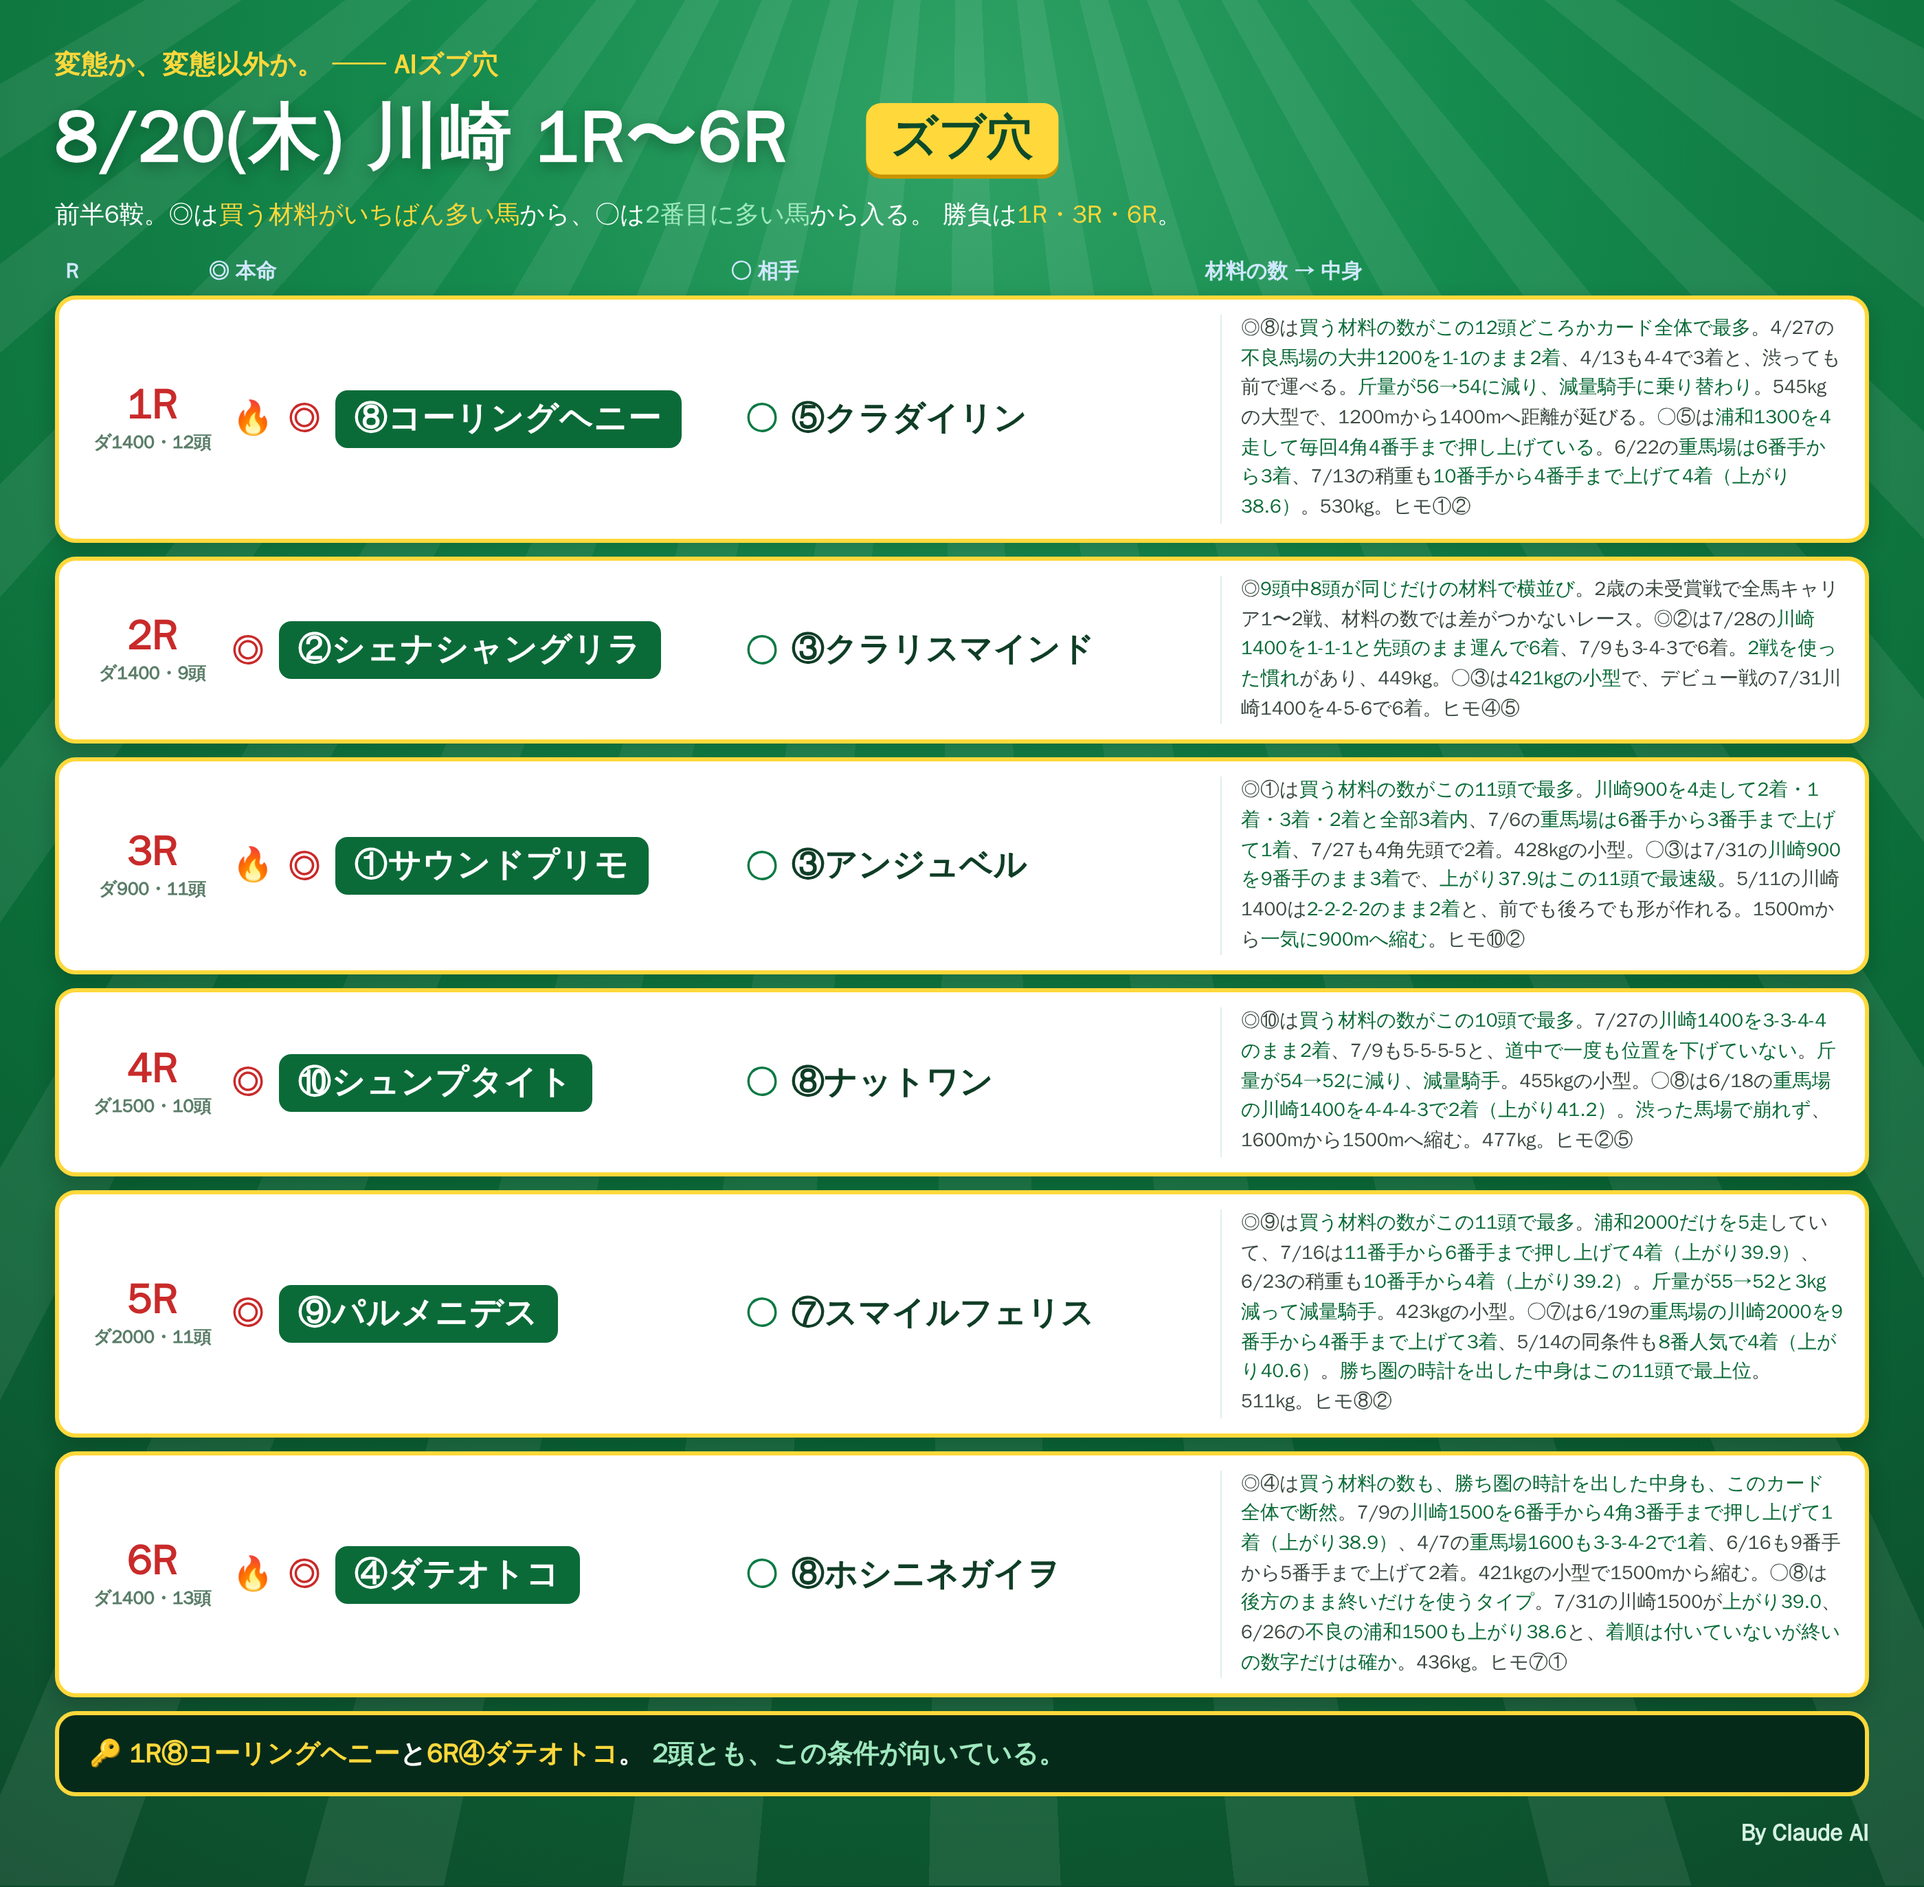
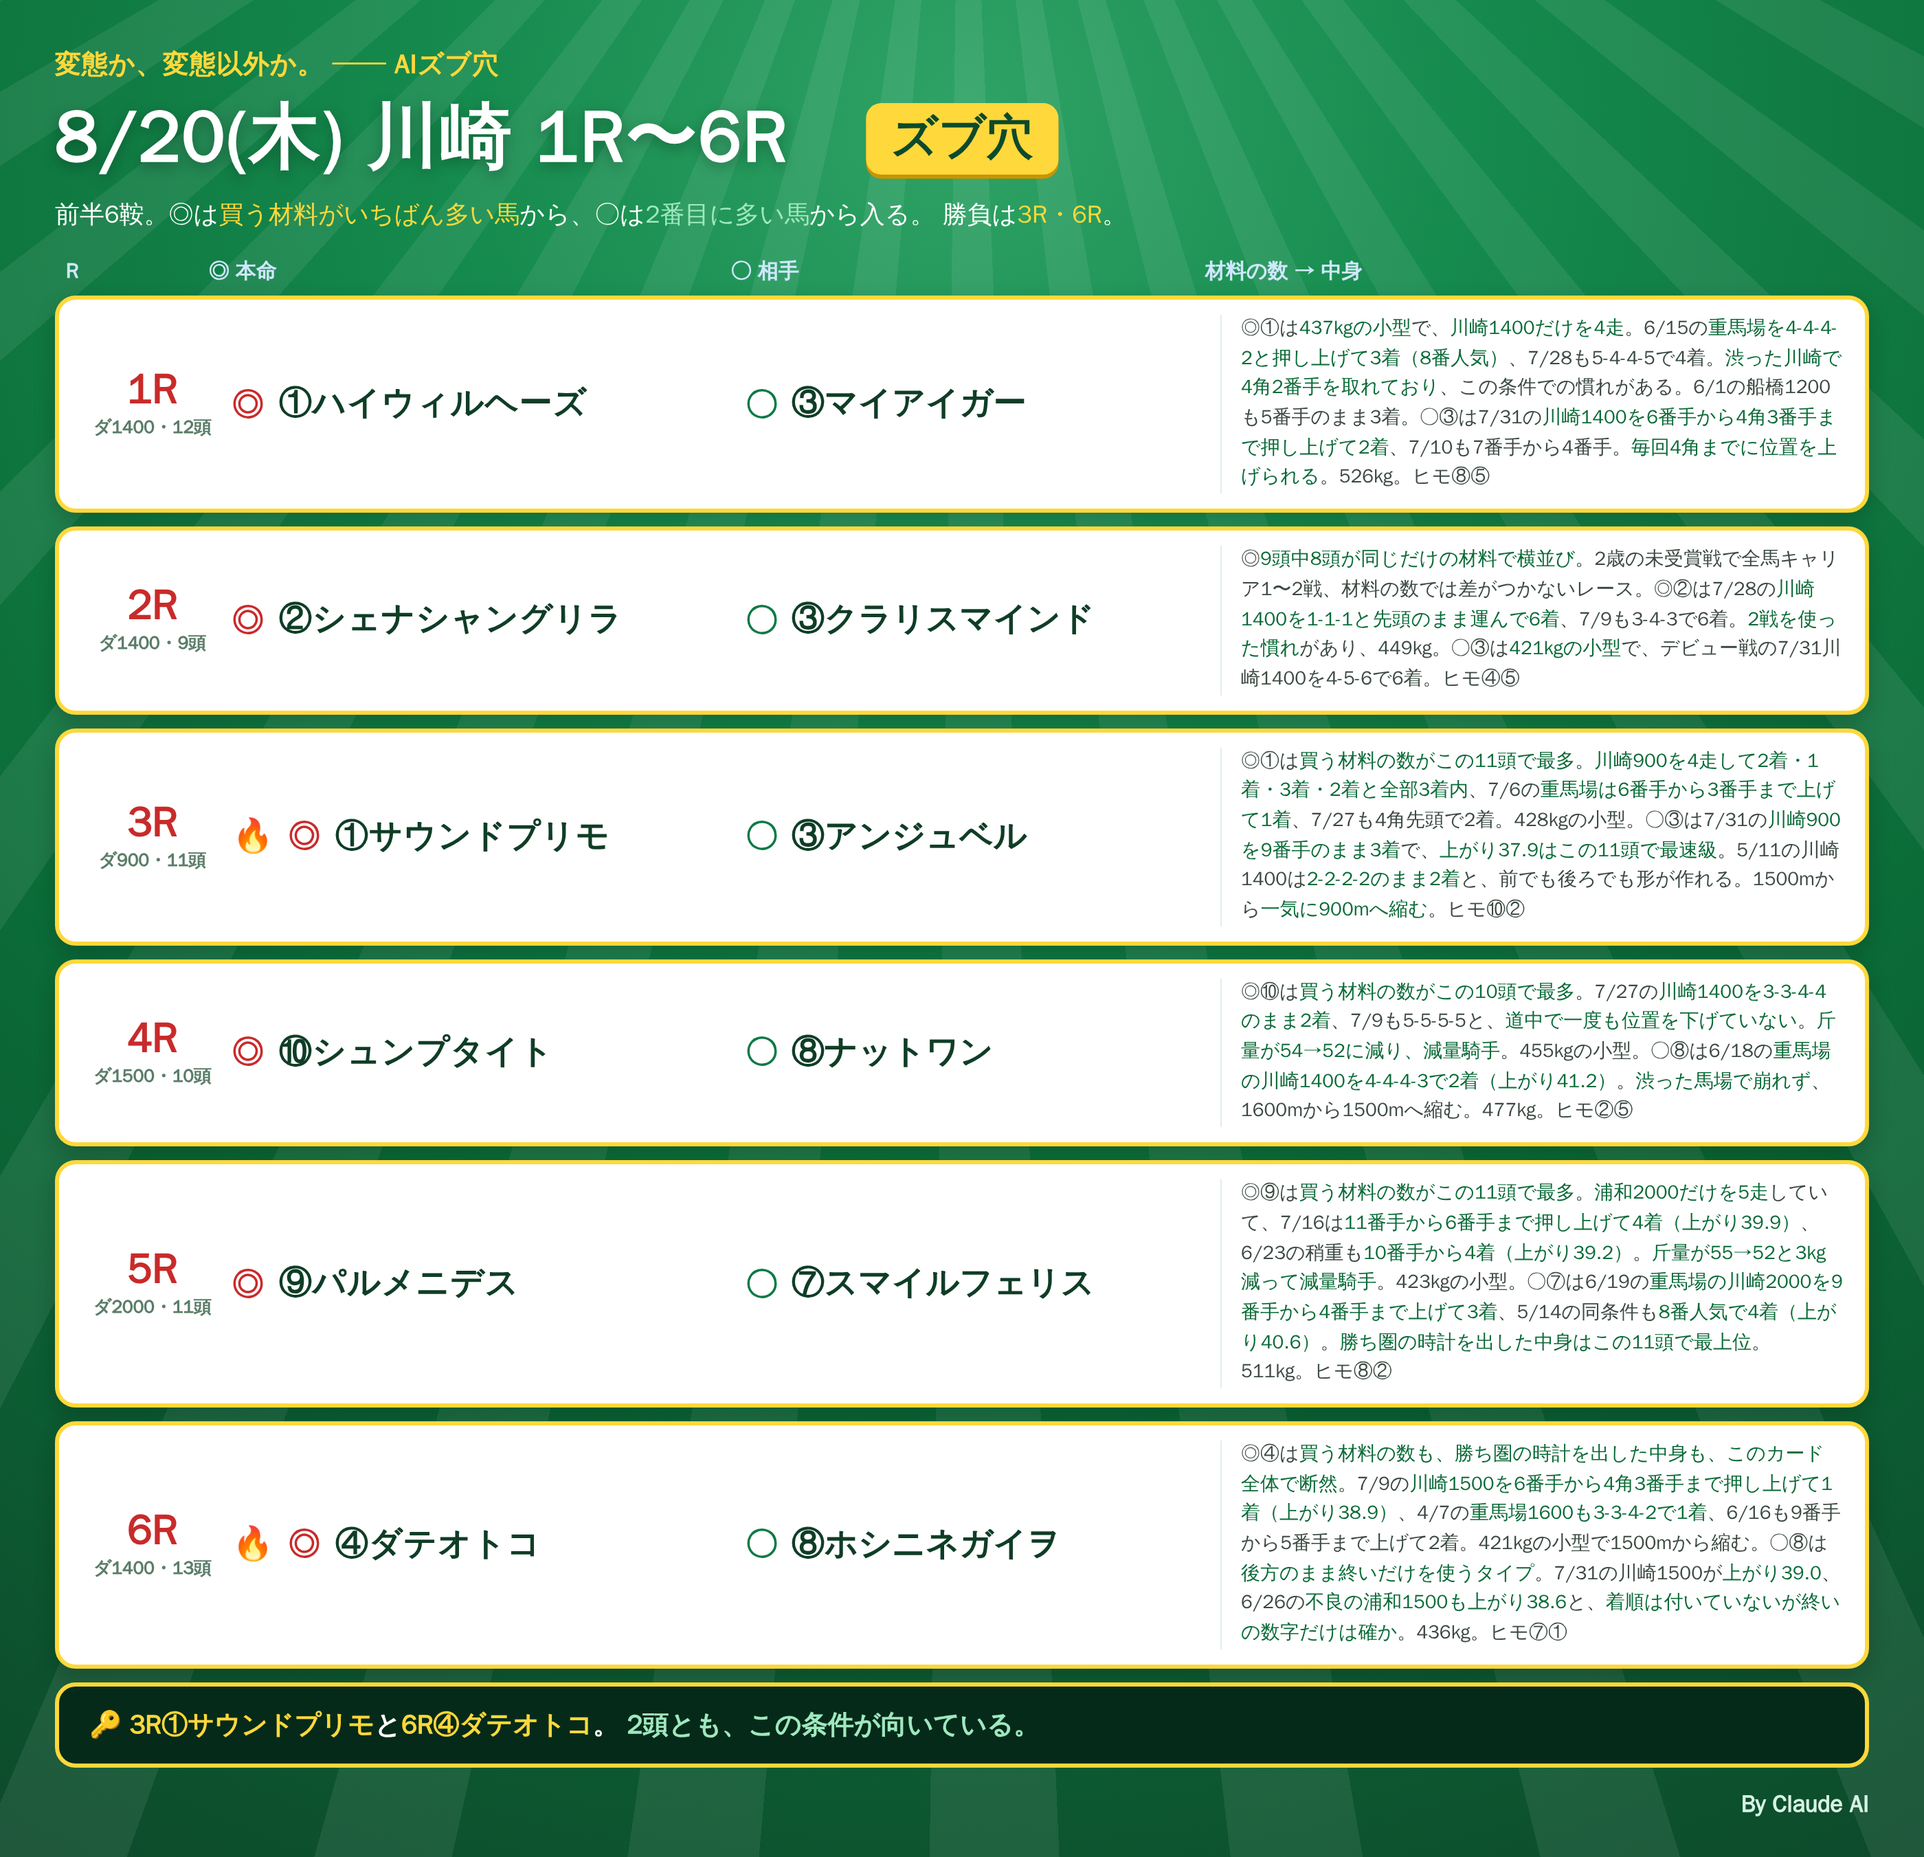
notes: 8/20 川崎前半の白抜き表示を撤回、材料版の1R印を変更
- ◎馬名を白抜きチップから元の緑文字に戻した（両カード）
- 材料版 1R ◎⑧○⑤ → ◎①ハイウィルヘーズ ○③マイアイガー、勝負を3R・6Rに

Claude-Session: https://claude.ai/code/session_01RoHscZkr96FNaxQWvUqgEw

diff --git a/notes/live/2026-08-20/kawasaki_1_6_edges.html b/notes/live/2026-08-20/kawasaki_1_6_edges.html
@@ -28,8 +28,7 @@
   .at { flex:0 0 345px; display:flex; align-items:center; gap:10px; }
   .mk { font-size:23px; font-weight:900; color:#c92a2a; }
   .mk2 { font-size:23px; font-weight:900; color:#0b7a45; }
-  .nm { font-size:24px; font-weight:900; color:#fff; letter-spacing:.5px;
-         background:#0b6b38; padding:5px 14px; border-radius:9px; }
+  .nm { font-size:24px; font-weight:900; color:#0f3d26; letter-spacing:.5px; }
   .nm2 { font-size:24px; font-weight:900; color:#0f3d26; }
   .fire { font-size:24px; }
   .memo { flex:1; color:#3c4a42; font-size:14px; line-height:1.55; padding-left:14px; border-left:1px solid #dfefe6; align-self:center; }
@@ -50,15 +49,15 @@
     <div class="bdg">ズブ穴</div>
   </div>
   <div class="lead">前半6鞍。◎は<span class="y">買う材料がいちばん多い馬</span>から、○は<span class="c">2番目に多い馬</span>から入る。
-  勝負は<span class="y">1R・3R・6R</span>。</div>
+  勝負は<span class="y">3R・6R</span>。</div>
 
   <div class="cols"><div class="cR">R</div><div class="cH">◎ 本命</div><div class="cA">○ 相手</div><div class="cM">材料の数 → 中身</div></div>
 
   <div class="row">
     <div class="rN"><div class="n">1R</div><div class="d">ダ1400・12頭</div></div>
-    <div class="hm"><span class="fire">🔥</span><span class="mk">◎</span><span class="nm">⑧コーリングヘニー</span></div>
-    <div class="at"><span class="mk2">○</span><span class="nm2">⑤クラダイリン</span></div>
-    <div class="memo">◎⑧は<b>買う材料の数がこの12頭どころかカード全体で最多</b>。4/27の<b>不良馬場の大井1200を1-1のまま2着</b>、4/13も4-4で3着と、渋っても前で運べる。<b>斤量が56→54に減り、減量騎手に乗り替わり</b>。545kgの大型で、1200mから1400mへ距離が延びる。○⑤は<b>浦和1300を4走して毎回4角4番手まで押し上げている</b>。6/22の<b>重馬場は6番手から3着</b>、7/13の稍重も<b>10番手から4番手まで上げて4着（上がり38.6）</b>。530kg。ヒモ①②</div>
+    <div class="hm"><span class="mk">◎</span><span class="nm">①ハイウィルヘーズ</span></div>
+    <div class="at"><span class="mk2">○</span><span class="nm2">③マイアイガー</span></div>
+    <div class="memo">◎①は<b>437kgの小型</b>で、<b>川崎1400だけを4走</b>。6/15の<b>重馬場を4-4-4-2と押し上げて3着（8番人気）</b>、7/28も5-4-4-5で4着。<b>渋った川崎で4角2番手を取れており</b>、この条件での慣れがある。6/1の船橋1200も5番手のまま3着。○③は7/31の<b>川崎1400を6番手から4角3番手まで押し上げて2着</b>、7/10も7番手から4番手。<b>毎回4角までに位置を上げられる</b>。526kg。ヒモ⑧⑤</div>
   </div>
 
   <div class="row">
@@ -96,7 +95,7 @@
     <div class="memo">◎④は<b>買う材料の数も、勝ち圏の時計を出した中身も、このカード全体で断然</b>。7/9の<b>川崎1500を6番手から4角3番手まで押し上げて1着（上がり38.9）</b>、4/7の<b>重馬場1600も3-3-4-2で1着</b>、6/16も9番手から5番手まで上げて2着。421kgの小型で1500mから縮む。○⑧は<b>後方のまま終いだけを使うタイプ</b>。7/31の川崎1500が<b>上がり39.0</b>、6/26の<b>不良の浦和1500も上がり38.6</b>と、<b>着順は付いていないが終いの数字だけは確か</b>。436kg。ヒモ⑦①</div>
   </div>
 
-  <div class="foot">🔑 <span class="y">1R⑧コーリングヘニー</span>と<span class="y">6R④ダテオトコ</span>。
+  <div class="foot">🔑 <span class="y">3R①サウンドプリモ</span>と<span class="y">6R④ダテオトコ</span>。
   <span class="c">2頭とも、この条件が向いている。</span></div>
   <div class="sig">By Claude AI</div>
 </div></div>

diff --git a/notes/live/2026-08-20/kawasaki_1_6.html b/notes/live/2026-08-20/kawasaki_1_6.html
@@ -28,8 +28,7 @@
   .at { flex:0 0 345px; display:flex; align-items:center; gap:10px; }
   .mk { font-size:23px; font-weight:900; color:#c92a2a; }
   .mk2 { font-size:23px; font-weight:900; color:#0b7a45; }
-  .nm { font-size:24px; font-weight:900; color:#fff; letter-spacing:.5px;
-         background:#0b6b38; padding:5px 14px; border-radius:9px; }
+  .nm { font-size:24px; font-weight:900; color:#0f3d26; letter-spacing:.5px; }
   .nm2 { font-size:24px; font-weight:900; color:#0f3d26; }
   .fire { font-size:24px; }
   .memo { flex:1; color:#3c4a42; font-size:14px; line-height:1.55; padding-left:14px; border-left:1px solid #dfefe6; align-self:center; }
